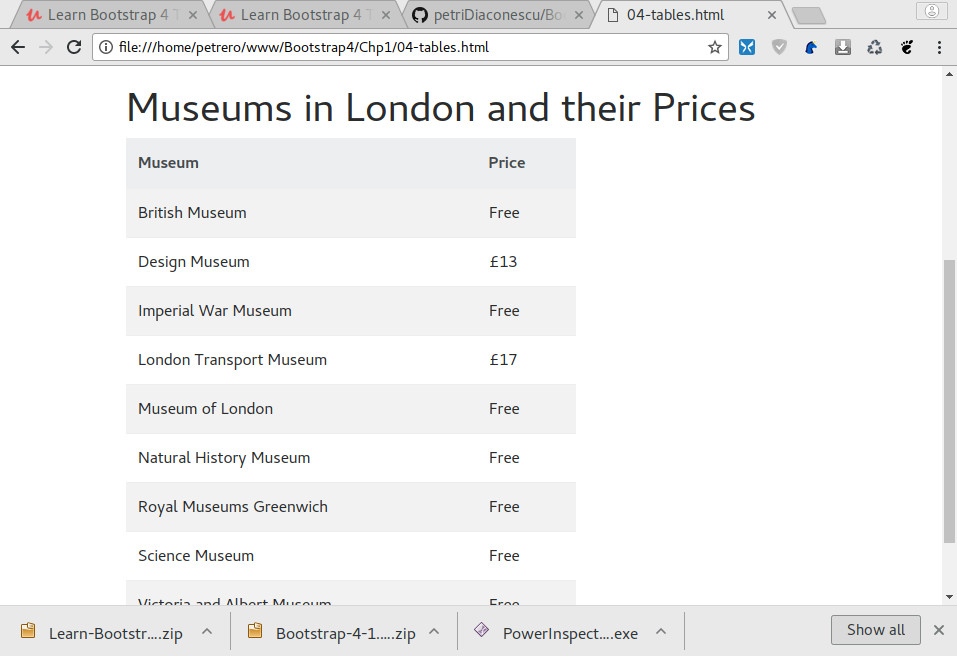
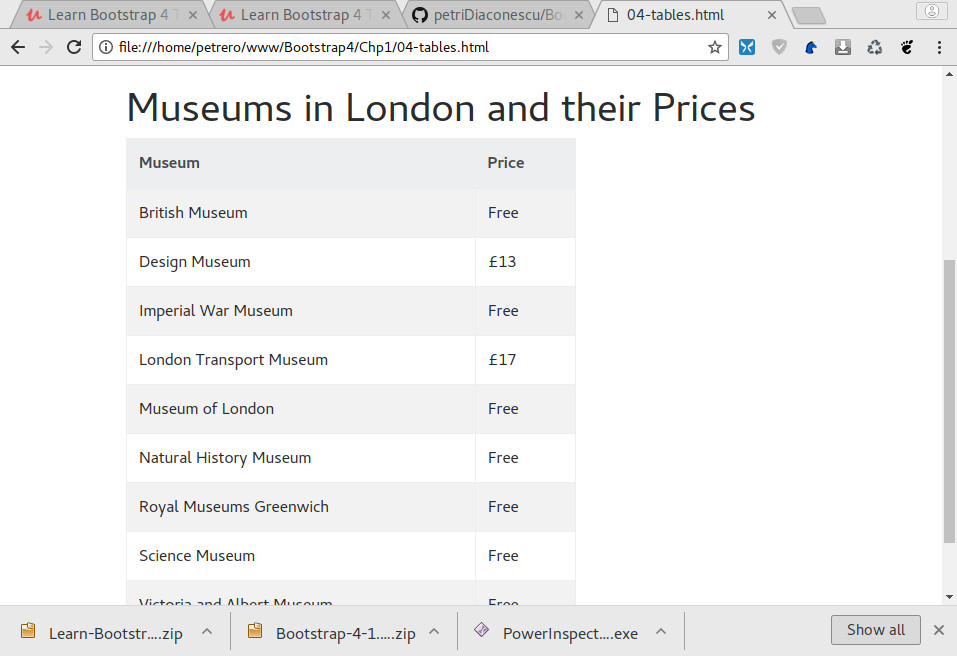
When I hover over a raw in the table a background appear.

diff --git a/Chp1/04-tables.html b/Chp1/04-tables.html
@@ -28,7 +28,7 @@
         <h1>Museums in London and their Prices</h1>
         <div class="row">
           <div class="col-8">
-            <table class="table table-striped table-bordered">
+            <table class="table table-hover">
                 <caption>Museums in London</caption>
                 <thead class="thead-default">
                   <tr>
